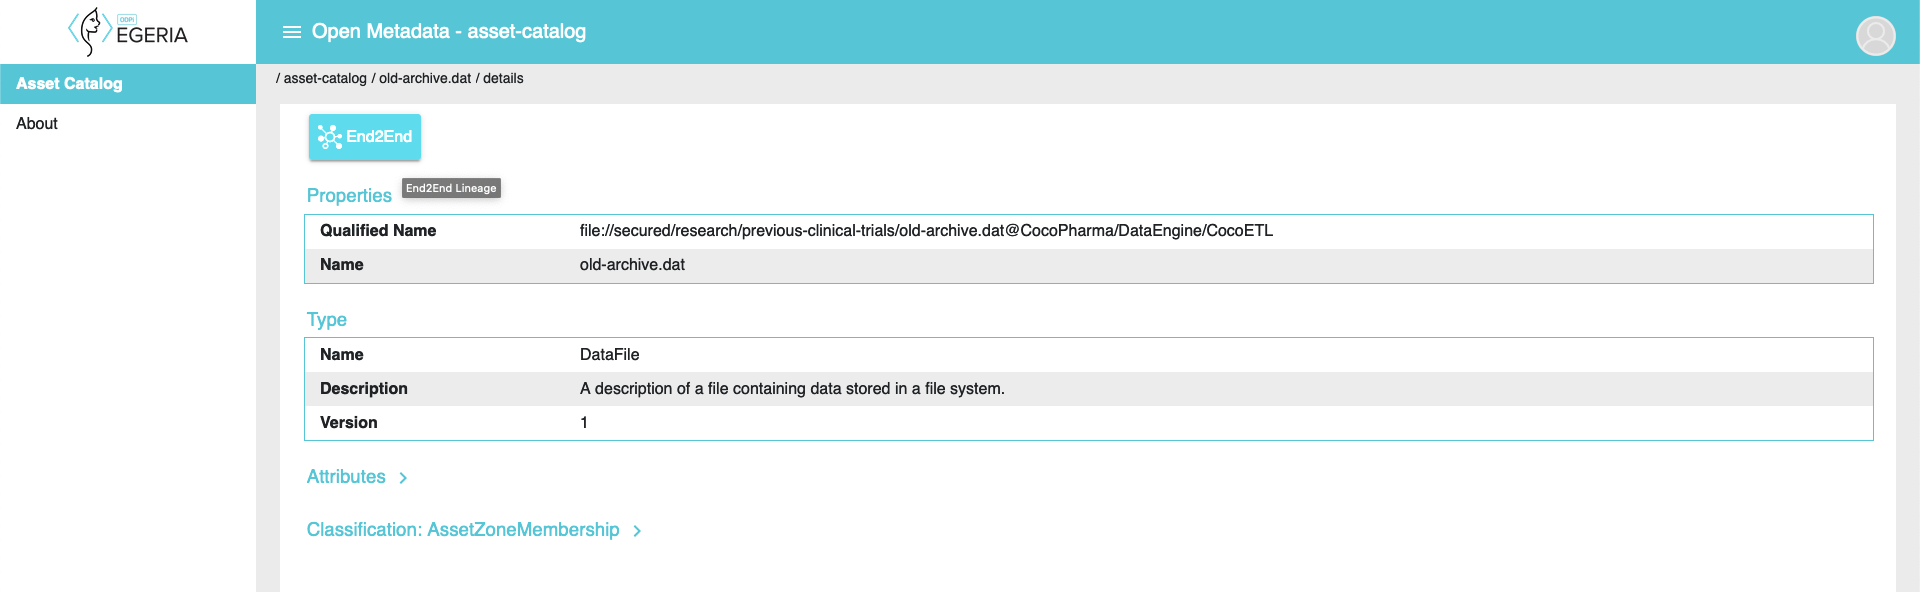
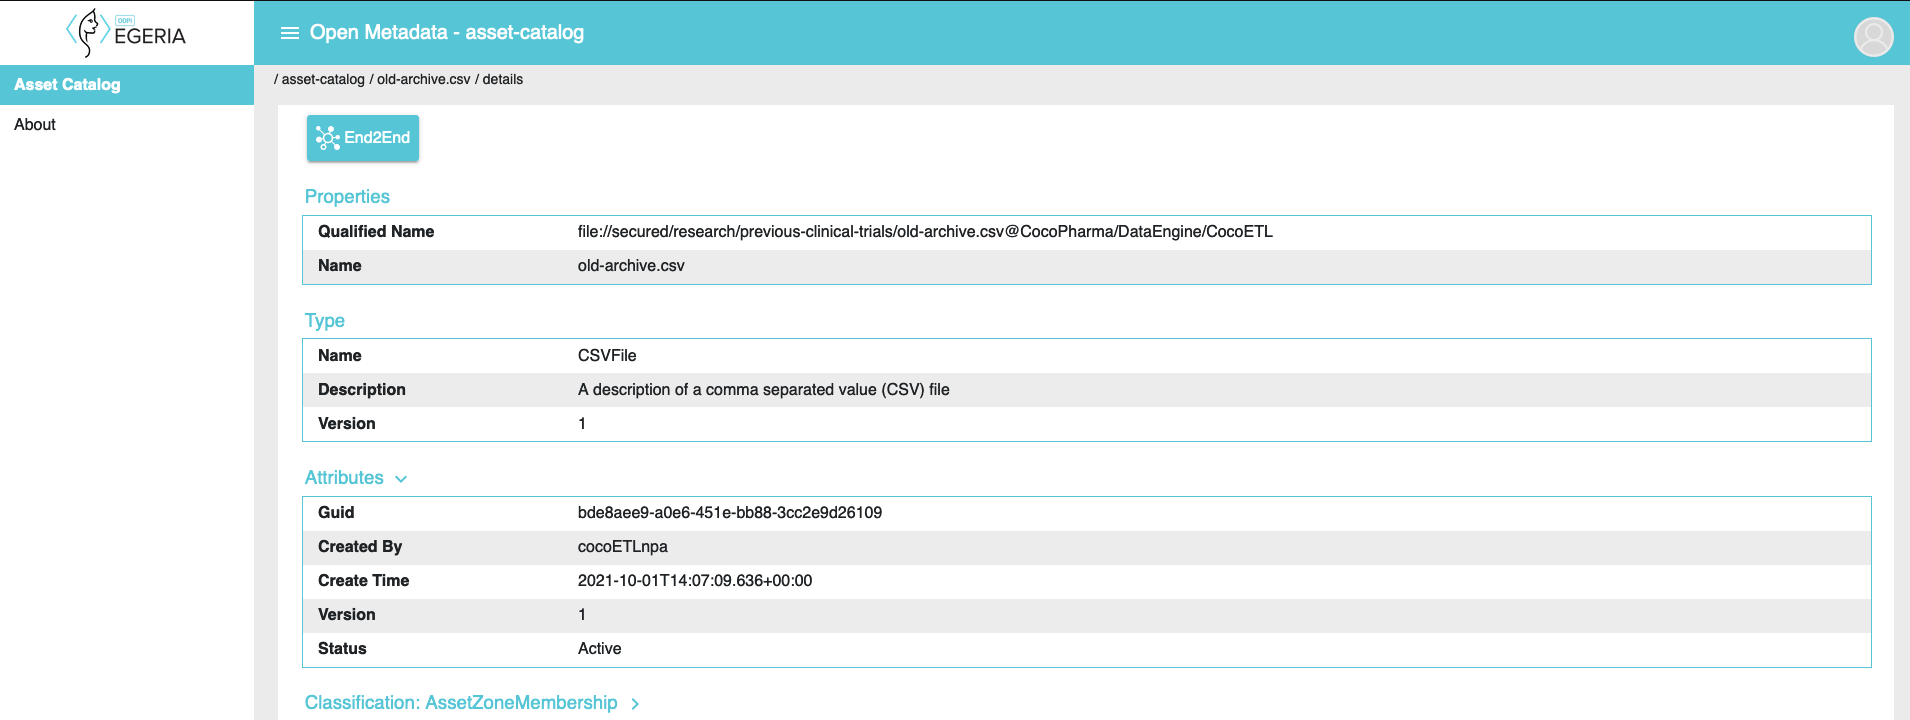
Updates: security connector new npa, updated text, added description for ols server configuration

Changed region(s): [[0.0, 0.0, 1.0, 1.0]]

diff --git a/open-metadata-resources/open-metadata-samples/open-metadata-security-samples/src/main/java/org/odpi/openmetadata/metadatasecurity/samples/CocoPharmaServerSecurityConnector.java b/open-metadata-resources/open-metadata-samples/open-metadata-security-samples/src/main/java/org/odpi/openmetadata/metadatasecurity/samples/CocoPharmaServerSecurityConnector.java
@@ -140,6 +140,7 @@ public class CocoPharmaServerSecurityConnector extends OpenMetadataServerSecurit
         final String fixItDL01UserId    = "fixItDL01npa";
         final String onboardDL01UserId  = "onboardDL01npa";
         final String monitorDL01UserId  = "monitorDL01npa";
+        final String cocoEngineUserId    = "cocoETLnpa";
 
         /*
          * Set up default zone membership
@@ -191,6 +192,7 @@ public class CocoPharmaServerSecurityConnector extends OpenMetadataServerSecurit
         allUsers.add(fixItDL01UserId);
         allUsers.add(onboardDL01UserId);
         allUsers.add(monitorDL01UserId);
+        allUsers.add(cocoEngineUserId);
 
         allEmployees.add(zachNowUserId);
         allEmployees.add(steveStarterUserId);
@@ -249,6 +251,7 @@ public class CocoPharmaServerSecurityConnector extends OpenMetadataServerSecurit
         npaAccounts.add(exchangeDL01UserId);
         npaAccounts.add(onboardDL01UserId);
         npaAccounts.add(monitorDL01UserId);
+        npaAccounts.add(cocoEngineUserId);
         assetOnboarding.addAll(npaAccounts);
 
         List<String> zoneSetUp = new ArrayList<>();
